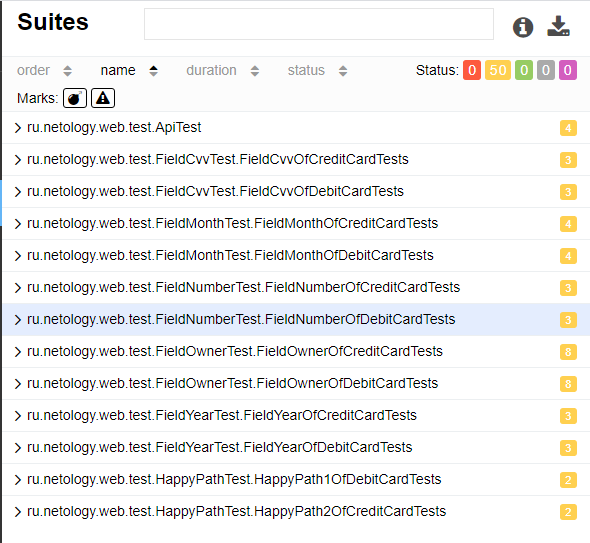
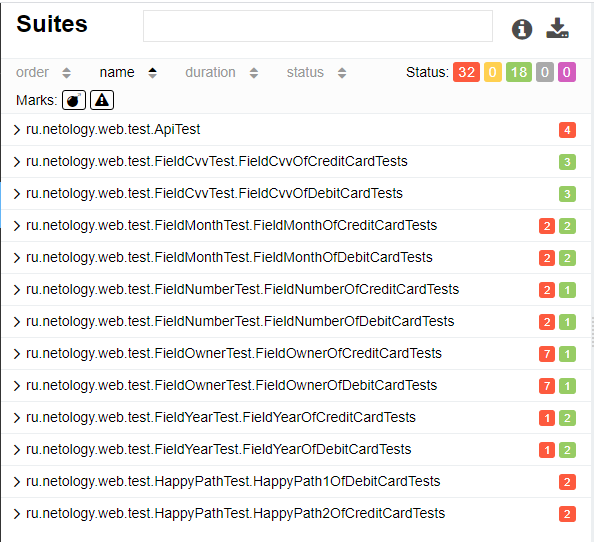
Исправлены замечания6

diff --git a/README.md b/README.md
@@ -13,17 +13,17 @@
 #### Приложение в собственной СУБД сохраняет информацию о том, каким способом был совершён платёж и успешно ли он был совершён.
 
 ### Запуск Авто-Тестов.
-* Запустить в Docker контейнеры СУБД MySQl, PostgerSQL и Node.js
+* Запустить в Docker контейнеры СУБД MySQl, PostgeSQL и Node.js
 * Запустить контейнеры в терминале
 1. Нужно ввести команду в терминале: 
 **docker-compose up**
 2. Зпускаем SUT, для этого в новой вкладке в терминале вводим следующую команду:
 * Для СУБД MySQL: **java -Dspring.datasource.url=jdbc:mysql://localhost:3306/app -jar artifacts/aqa-shop.jar**
-* Для СУБД PostgreSQL: **java -Dspring.datasource.url=jdbc:postgresql://localhost:5433/app -jar artifacts/aqa-shop.jar**
+* Для СУБД PostgreSQL: **java -jar -Dspring.datasource.url=jdbc:postgresql://localhost:5432/app artifacts/aqa-shop.jar**
 3. Запускаем автотесты, следующе командой:
 * Для MySQL:
-**gradlew clean test -Durl=jdbc:mysql://localhost:3306/app**
-* Для PostgreSQL: **gradlew clean test -Durl=jdbc:postgresql://localhost:5433/app**
+**gradlew clean test -Ddb.url=jdbc:mysql://localhost:3306/app**
+* Для PostgreSQL: **gradlew clean test -Ddb.url=jdbc:postgresql://localhost:5432/app**
 4. Сгенерировать отчеты: 
 * **gradlew allureReport**
 * **gradlew allureServe**

diff --git a/documents/Summary.md b/documents/Summary.md
@@ -1,0 +1,11 @@
+## Отчет по итогам автоматизации 
+### Что было сделано 
+* Проведено автоматизированное всех запланированных позитивных и негативных сценариев для обоих вариантов взаимодействия с сервисом — "Оплата по карте" и "Кредит по данным карты";
+* Протестировано API сервиса для Payment Gate и Credit Gate;
+* Подтверждена заявленная поддержка СУБД MySQL и PostgeSQL.
+### Сработавшие риски
+* Настройка работы с СУБД потребовала значительного времени. А именно поиск информации в сети, проверка в работе различных комбинаций и вариантов, потребовалась помощь руководителя "Дипломного проекта" при поиске неисправностей.
+* Фактическое время на написание авто-тестов и разворачивание инфраструктуры превысило оптимистичный план.
+### Общий итог по времени
+* На работу было запланировано: 98 часов.
+* На выполнение работы затрачено: 150 часов.

diff --git a/documents/Report.md b/documents/Report.md
@@ -12,14 +12,22 @@
 Не прошли 29 тест кейсов - 58%
 
 ### При подключении к СУБД PostgreSQL
-![img_1.png](img_1.png)
-Из них: ни один не прошел.
+![img_6.png](img_6.png)
+Из них:
+Успешных оказалось 18 кейсов - 36%
+Не прошли 32 кейса - 64%
 ### UI тесты:
 * Негативные - 50
 ### Результаты тестов MySQL
 ![img_2.png](img_2.png)
 ### Результаты тестов PostgreSQL
-![img_3.png](img_3.png)
+![img_8.png](img_8.png)
 ### API-тесты
-Проведено 4 API-теста, все прошли успешно.
+
+Проведено 4 API-теста:
+По MySQL все прошли успешно.
 ![img_4.png](img_4.png)
+По PostgreSQL, не один не прошел.
+![img_7.png](img_7.png)
+### Рекомендации
+По результьатам тестирования были заведены следующие - __[Issues](https://github.com/Mikhail9030/QADiplom/issues)__.
